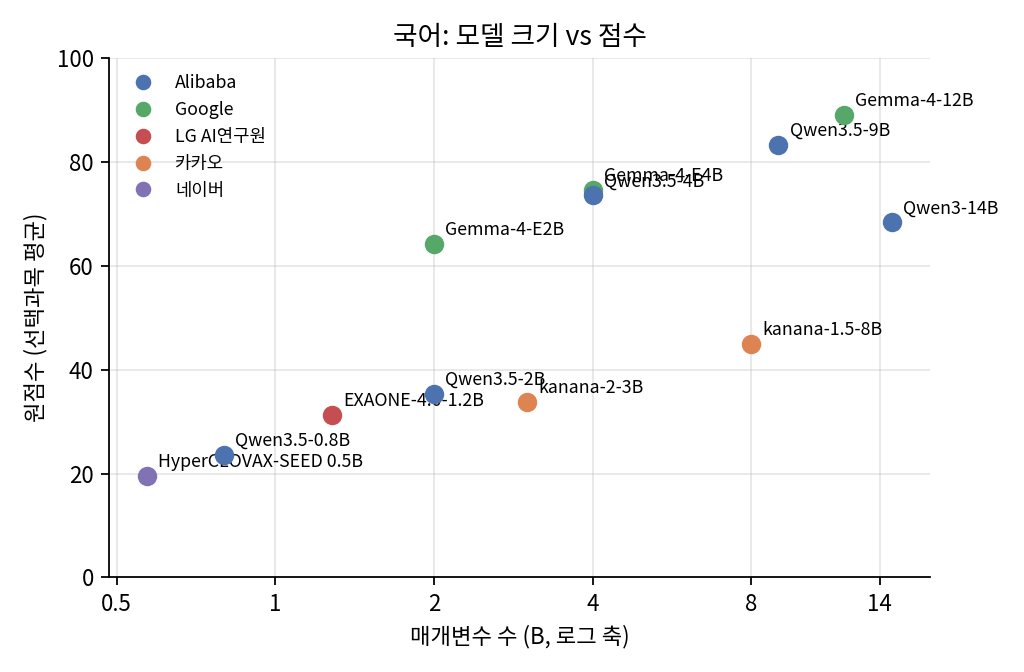
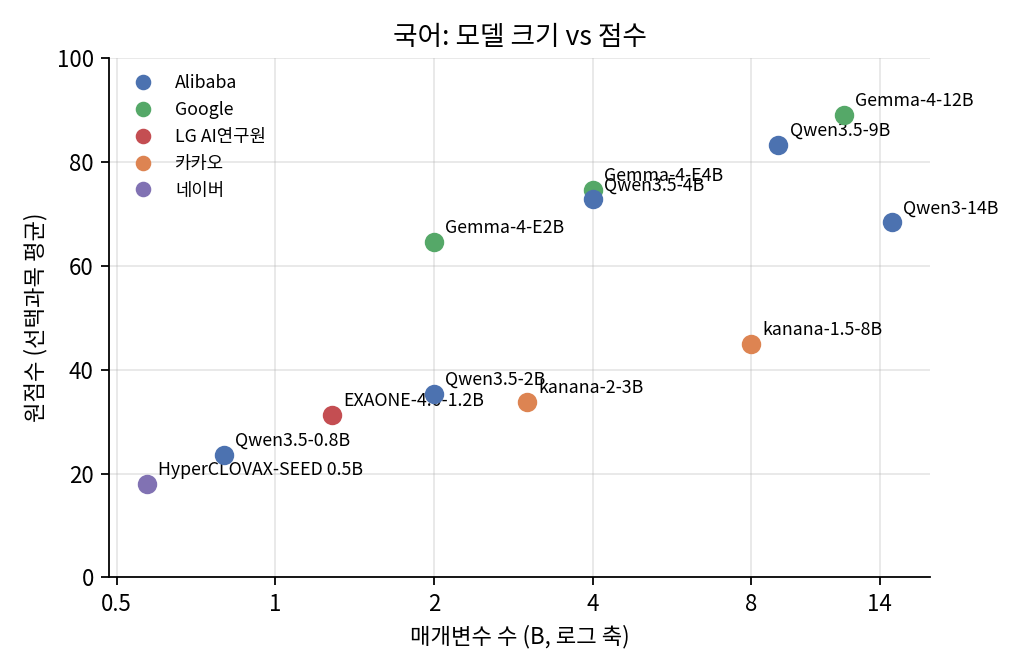
Update results (36 runs)

diff --git a/README.md b/README.md
@@ -10,9 +10,9 @@
 - **수학**은 작은 모델도 잘 푼다. 4B 크기의 Gemma-4-E4B가 80점을 넘었다.
 - 시험지 맨 끝의 4점 단답형 고난도 문항(공통 21·22번, 선택 29·30번)은 모델 평균 정답률이 25%, 가장 잘 푼 모델도 67%에 그쳤다.
 - **국어가 수학보다 어렵다.** 2B 이상 모델 기준으로 국어 정답률이 수학보다 평균 13%p 낮다. 2,000–4,000자 길이의 지문을 읽고 선택지 사이의 미묘한 차이를 가려내는 일이 작은 모델에게는 계산보다 어렵다.
-- **국산 모델**: HyperCLOVAX-SEED 0.5B(국어 20점, 수학 18점), EXAONE-4.0-1.2B(국어 31점, 수학 74점), kanana-2-3B(국어 34점, 수학 39점), kanana-1.5-8B(국어 45점, 수학 42점).
+- **국산 모델**: HyperCLOVAX-SEED 0.5B(국어 18점, 수학 19점), EXAONE-4.0-1.2B(국어 31점, 수학 75점), kanana-2-3B(국어 34점, 수학 39점), kanana-1.5-8B(국어 45점, 수학 42점).
 
-> 마지막 업데이트: 2026-11-19 16:11 KST. 평가가 진행되는 동안 모델 하나가 끝날 때마다 이 페이지가 자동으로 갱신된다.
+> 마지막 업데이트: 2026-11-19 16:13 KST. 평가가 진행되는 동안 모델 하나가 끝날 때마다 이 페이지가 자동으로 갱신된다.
 
 ## 왜 소형 모델인가
 
@@ -81,14 +81,14 @@
 
 | 모델 | 개발사 | 매개변수(B) | 실행 가능 기기 | 국어(화작) | 국어(언매) | 수학(확통) | 수학(미적) | 수학(기하) |
 |---|---|---|---|---|---|---|---|---|
-| HyperCLOVAX-SEED 0.5B | 네이버 | 0.57 | 보급형 스마트폰 | 19.5 <sub>(16–23)</sub> | 19.6 <sub>(18–21)</sub> | 16.3 <sub>(14–19)</sub> | 20.1 <sub>(17–22)</sub> | 16.4 <sub>(15–17)</sub> |
+| HyperCLOVAX-SEED 0.5B | 네이버 | 0.57 | 보급형 스마트폰 | 18.0 <sub>(13–25)</sub> | 18.0 <sub>(16–19)</sub> | 17.5 <sub>(14–21)</sub> | 21.3 <sub>(17–24)</sub> | 18.0 <sub>(15–21)</sub> |
 | Qwen3.5-0.8B | 알리바바 | 0.8 | 보급형 스마트폰 | 24.3 <sub>(22–29)</sub> | 23.0 <sub>(20–25)</sub> | 35.5 <sub>(34–39)</sub> | 35.7 <sub>(33–37)</sub> | 33.0 <sub>(31–36)</sub> |
-| EXAONE-4.0-1.2B | LG AI연구원 | 1.28 | 보급형 스마트폰 | 31.2 <sub>(28–35)</sub> | 31.5 <sub>(27–35)</sub> | 77.9 <sub>(70–82)</sub> | 72.1 <sub>(63–79)</sub> | 73.5 <sub>(71–78)</sub> |
-| Gemma-4-E2B | 구글 | 2.0 | 중급 스마트폰 | 67.3 <sub>(64–70)</sub> | 61.0 <sub>(58–63)</sub> | 75.0 <sub>(72–80)</sub> | 73.0 <sub>(69–77)</sub> | 76.3 <sub>(76–77)</sub> |
+| EXAONE-4.0-1.2B | LG AI연구원 | 1.28 | 보급형 스마트폰 | 31.2 <sub>(28–35)</sub> | 31.5 <sub>(27–35)</sub> | 77.6 <sub>(70–82)</sub> | 72.9 <sub>(63–82)</sub> | 73.5 <sub>(71–78)</sub> |
+| Gemma-4-E2B | 구글 | 2.0 | 중급 스마트폰 | 67.9 <sub>(64–71)</sub> | 61.2 <sub>(59–63)</sub> | 75.0 <sub>(72–80)</sub> | 73.0 <sub>(69–77)</sub> | 76.3 <sub>(76–77)</sub> |
 | Qwen3.5-2B | 알리바바 | 2.0 | 보급형 스마트폰 | 34.1 <sub>(31–37)</sub> | 36.6 <sub>(34–39)</sub> | 64.7 <sub>(63–66)</sub> | 59.9 <sub>(56–65)</sub> | 62.1 <sub>(61–63)</sub> |
 | kanana-2-3B | 카카오 | 3.0 | 중급 스마트폰 | 32.3 <sub>(30–34)</sub> | 35.3 <sub>(29–39)</sub> | 42.6 <sub>(29–54)</sub> | 38.9 <sub>(28–51)</sub> | 36.3 <sub>(25–49)</sub> |
 | Gemma-4-E4B | 구글 | 4.0 | 중급 스마트폰 | 76.1 <sub>(68–82)</sub> | 73.3 <sub>(67–77)</sub> | 82.7 <sub>(80–84)</sub> | 79.3 <sub>(77–81)</sub> | 88.0 <sub>(84–92)</sub> |
-| Qwen3.5-4B | 알리바바 | 4.0 | 중급 스마트폰 | 76.1 <sub>(73–81)</sub> | 71.1 <sub>(70–72)</sub> | 88.8 <sub>(86–92)</sub> | 85.9 <sub>(82–88)</sub> | 90.5 <sub>(82–96)</sub> |
+| Qwen3.5-4B | 알리바바 | 4.0 | 중급 스마트폰 | 75.0 <sub>(71–81)</sub> | 70.7 <sub>(68–72)</sub> | 88.8 <sub>(86–92)</sub> | 85.9 <sub>(82–88)</sub> | 90.5 <sub>(82–96)</sub> |
 | kanana-1.5-8B | 카카오 | 8.0 | 플래그십 스마트폰 | 44.7 <sub>(40–48)</sub> | 45.3 <sub>(44–47)</sub> | 43.0 <sub>(37–49)</sub> | 42.0 <sub>(40–46)</sub> | 41.0 <sub>(34–46)</sub> |
 | Qwen3.5-9B | 알리바바 | 9.0 | 플래그십 스마트폰 | 87.7 <sub>(87–88)</sub> | 79.0 <sub>(76–81)</sub> | 90.4 <sub>(89–93)</sub> | 86.7 <sub>(82–92)</sub> | 92.8 <sub>(90–96)</sub> |
 | Gemma-4-12B | 구글 | 12.0 | 노트북·태블릿 | 92.0 <sub>(88–95)</sub> | 86.2 <sub>(78–93)</sub> | 88.5 <sub>(86–90)</sub> | 81.6 <sub>(82–82)</sub> | 88.5 <sub>(86–90)</sub> |
@@ -123,10 +123,10 @@
 
 | 모델 | 국어 정제 후 / 형식 엄수 / 형식 위반 / 잘림 / 평균 토큰 | 수학 정제 후 / 형식 엄수 / 형식 위반 / 잘림 / 평균 토큰 | 영어 정제 후 / 형식 엄수 / 형식 위반 / 잘림 / 평균 토큰 |
 |---|---|---|---|
-| HyperCLOVAX-SEED 0.5B | 0.19 / 0.09 / 0.50 / 0.10 / 946 | 0.19 / 0.10 / 0.59 / 0.09 / 1165 | — |
+| HyperCLOVAX-SEED 0.5B | 0.18 / 0.09 / 0.50 / 0.10 / 946 | 0.20 / 0.10 / 0.59 / 0.09 / 1165 | — |
 | Qwen3.5-0.8B | 0.23 / 0.14 / 0.46 / 0.46 / 12622 | 0.36 / 0.28 / 0.59 / 0.54 / 13733 | — |
 | EXAONE-4.0-1.2B | 0.30 / 0.29 / 0.04 / 0.01 / 1520 | 0.72 / 0.70 / 0.18 / 0.14 / 6924 | — |
-| Gemma-4-E2B | 0.58 / 0.58 / 0.00 / 0.00 / 1897 | 0.71 / 0.71 / 0.00 / 0.00 / 3471 | — |
+| Gemma-4-E2B | 0.59 / 0.58 / 0.00 / 0.00 / 1897 | 0.71 / 0.71 / 0.00 / 0.00 / 3471 | — |
 | Qwen3.5-2B | 0.34 / 0.29 / 0.23 / 0.25 / 12221 | 0.63 / 0.59 / 0.37 / 0.37 / 10424 | — |
 | kanana-2-3B | 0.33 / 0.33 / 0.00 / 0.00 / 176 | 0.39 / 0.39 / 0.01 / 0.00 / 596 | — |
 | Gemma-4-E4B | 0.69 / 0.69 / 0.02 / 0.00 / 1955 | 0.81 / 0.81 / 0.01 / 0.00 / 3955 | — |
